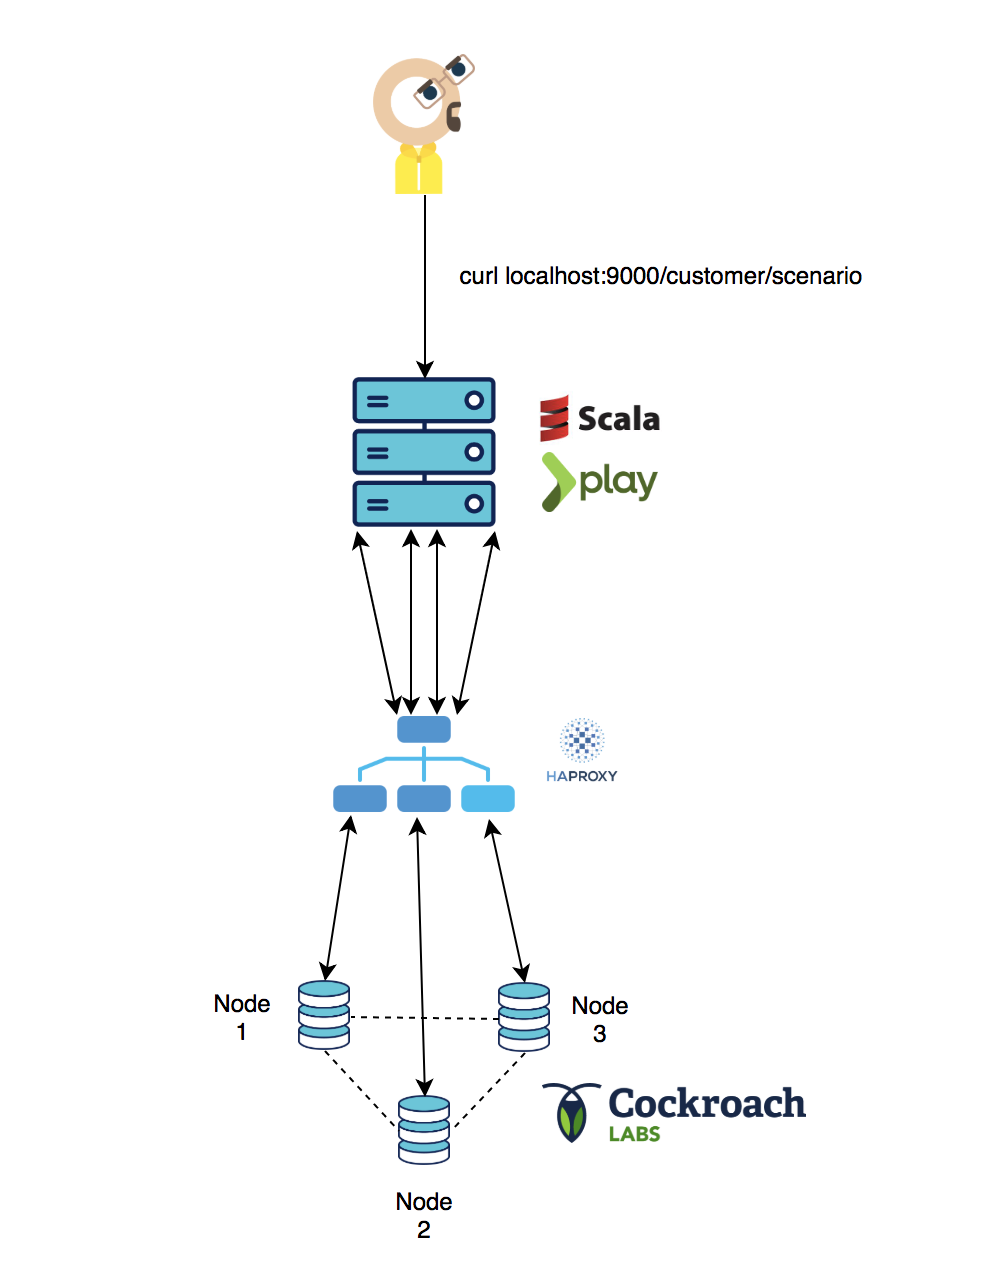
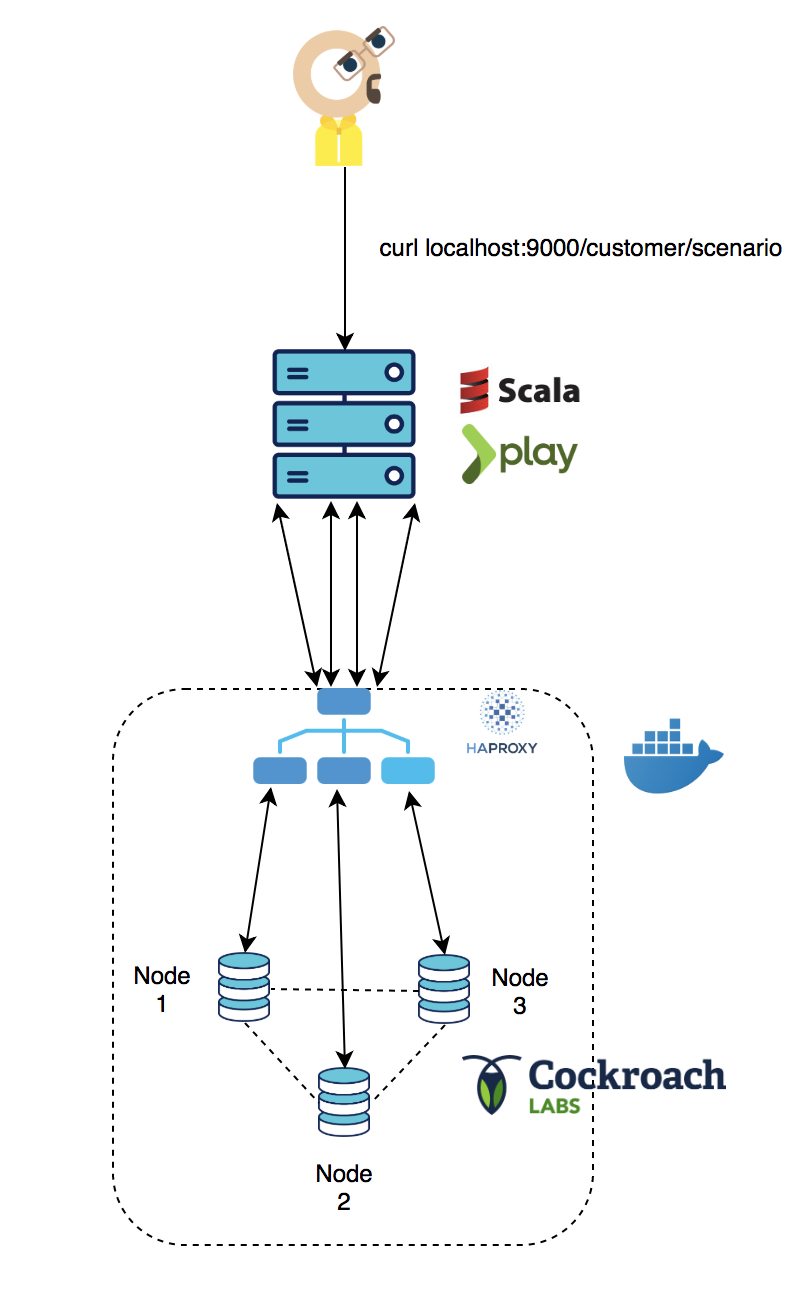
update readme

Changed region(s): [[0.1562, 0.0, 0.9688, 0.9781], [0.5, 0.6724, 0.9062, 0.9169], [0.7812, 0.5502, 0.9062, 0.6113]]

diff --git a/README.md b/README.md
@@ -19,9 +19,9 @@ You will need the following things properly installed on your computer.
 * [Docker](https://docs.docker.com/install/linux/docker-ce/ubuntu/) 
 * [docker-compose](https://docs.docker.com/compose/install/) 
 
-## Cockroach
+## Cockroach deployment
 
-##### Local 
+####Local 
 
 To launch a cockroach Cluster & HAproxy loadbalancer with docker-compose :
 
@@ -46,7 +46,21 @@ Launch customer scenario benchmark :
 ```
 curl 0.0.0.0:9000/customer/scenario
 ``` 
-![alt text](public/images/global_stack_local_cockroach.png "Description goes here")
+![alt text](public/images/global_stack_local_cockroach.png "global stack")
 
 
+####On GCP 
 
+## scala api e-commerce scenario :
+
+When we call the route customer/scenario, that launch the benchmark. And how works
+internally this scenario ?
+
+* Scenario close all connections with the databases and clean the db to have idempotent benchmark
+* Scenario load a pool of customers and products
+* Scenario insert a record into the db's table "bench" to say I'm ready to start the bench
+* We have to change boolean to true in the table bench into the db to say to api : "yes u can start"
+* Scenario start to create list actions for a customer (async for each customers)
+* Scenario run each actions and send it to "manager_request". It's pool of threads, they will
+unstack actions list, and send the action to the db selected
+ 
